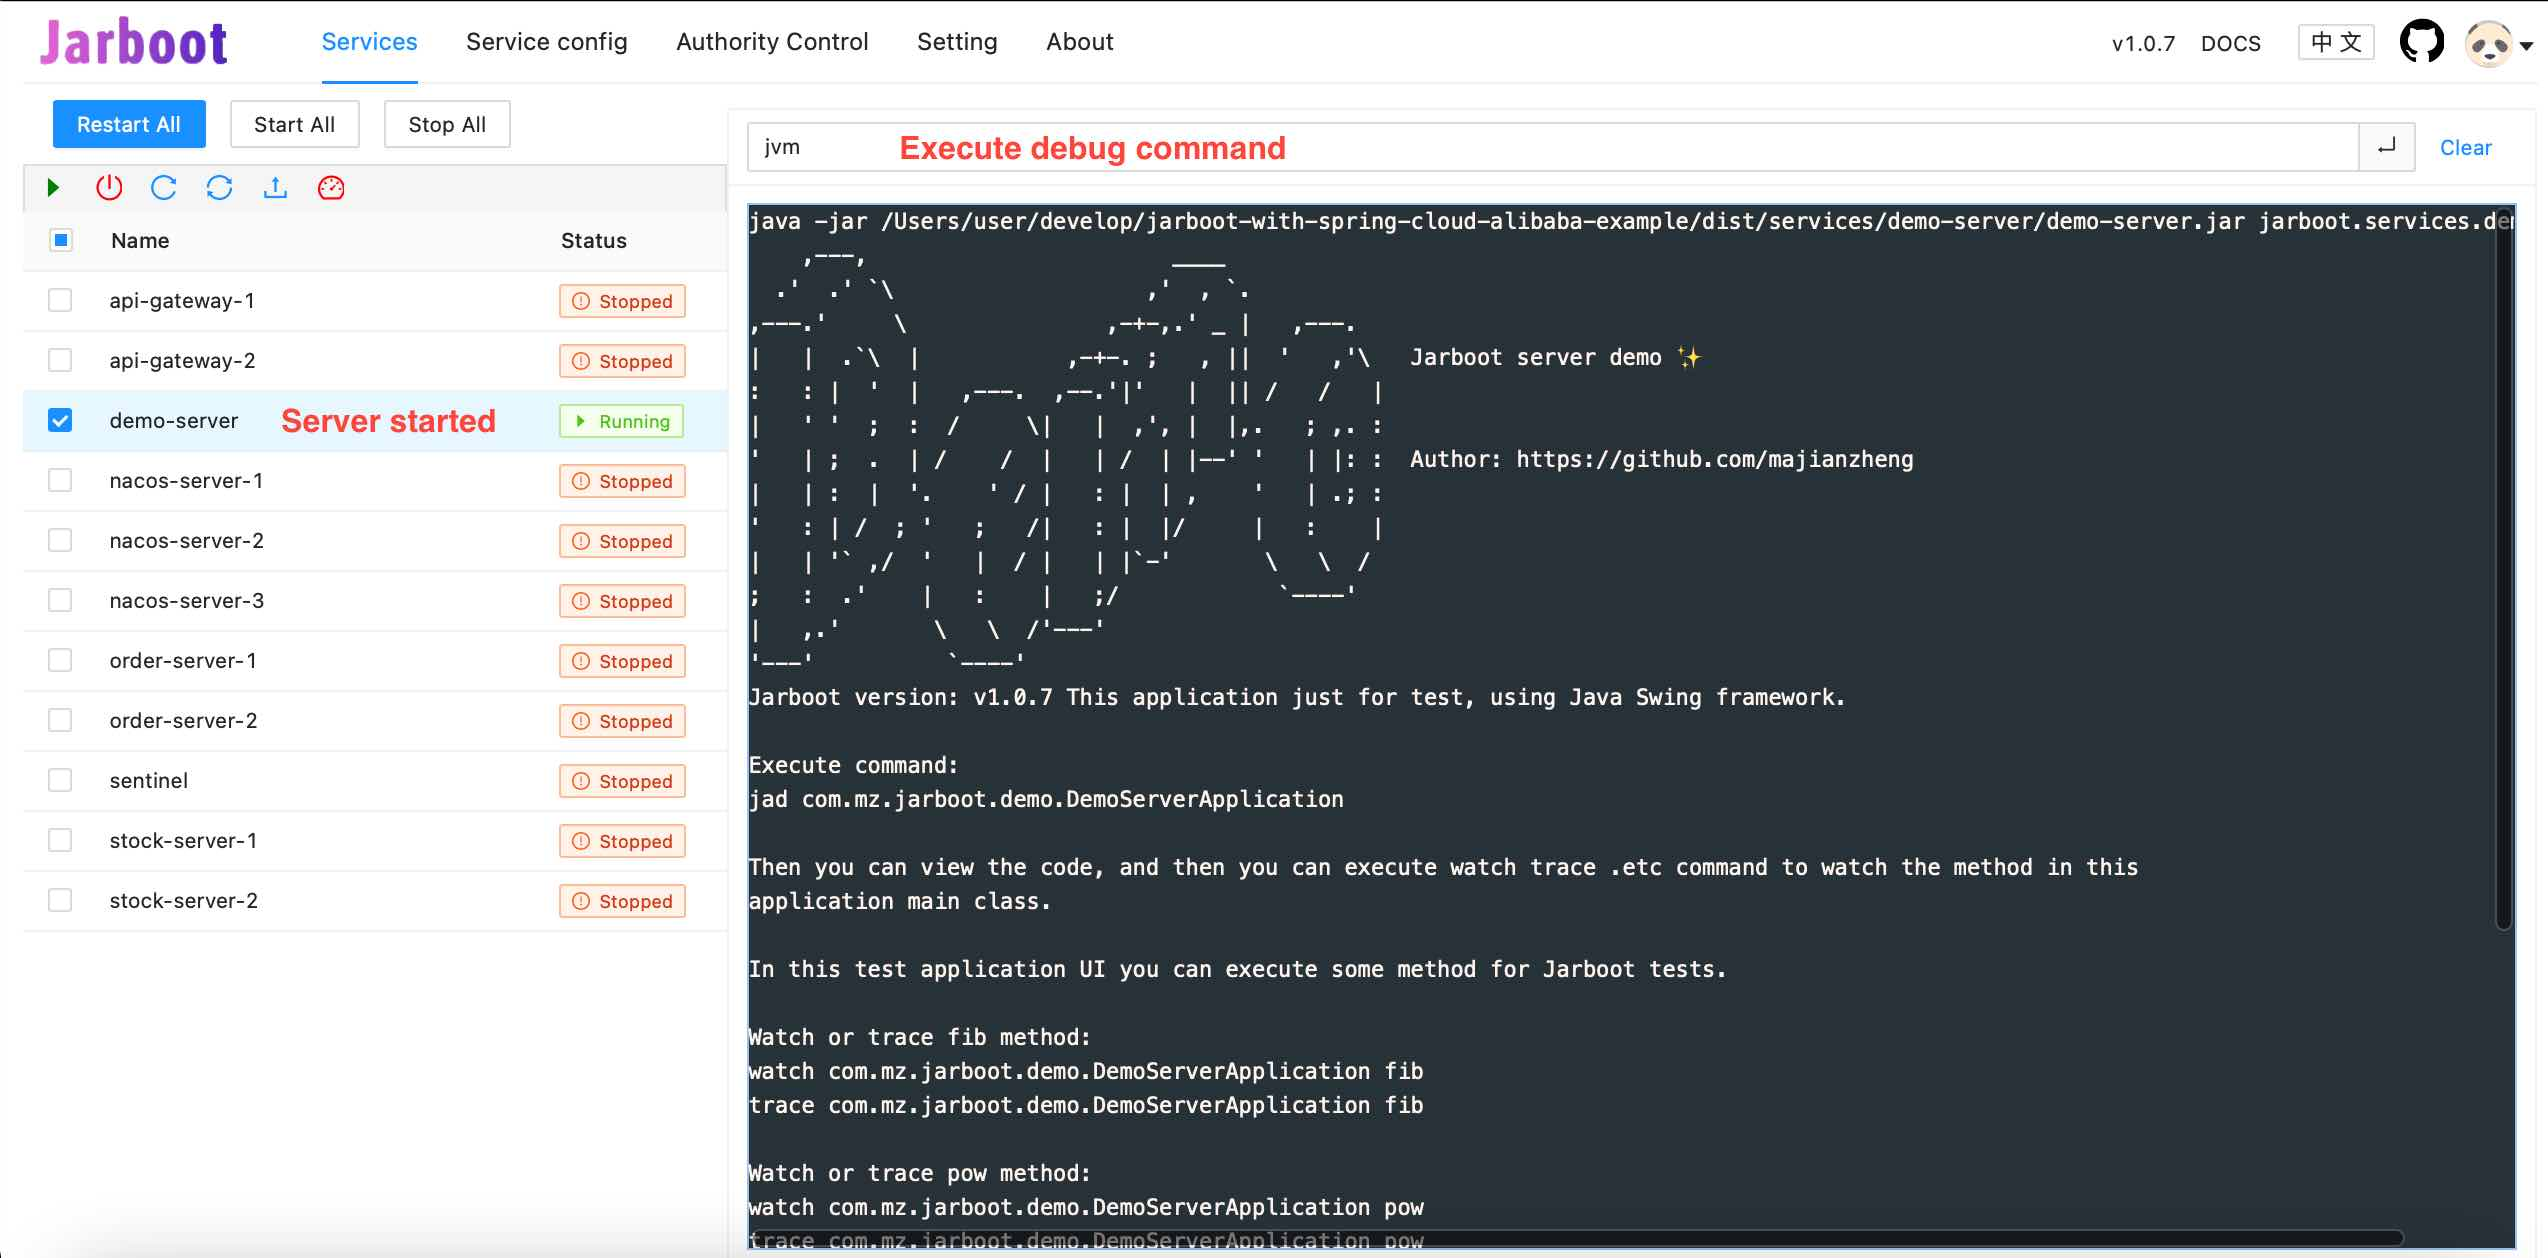
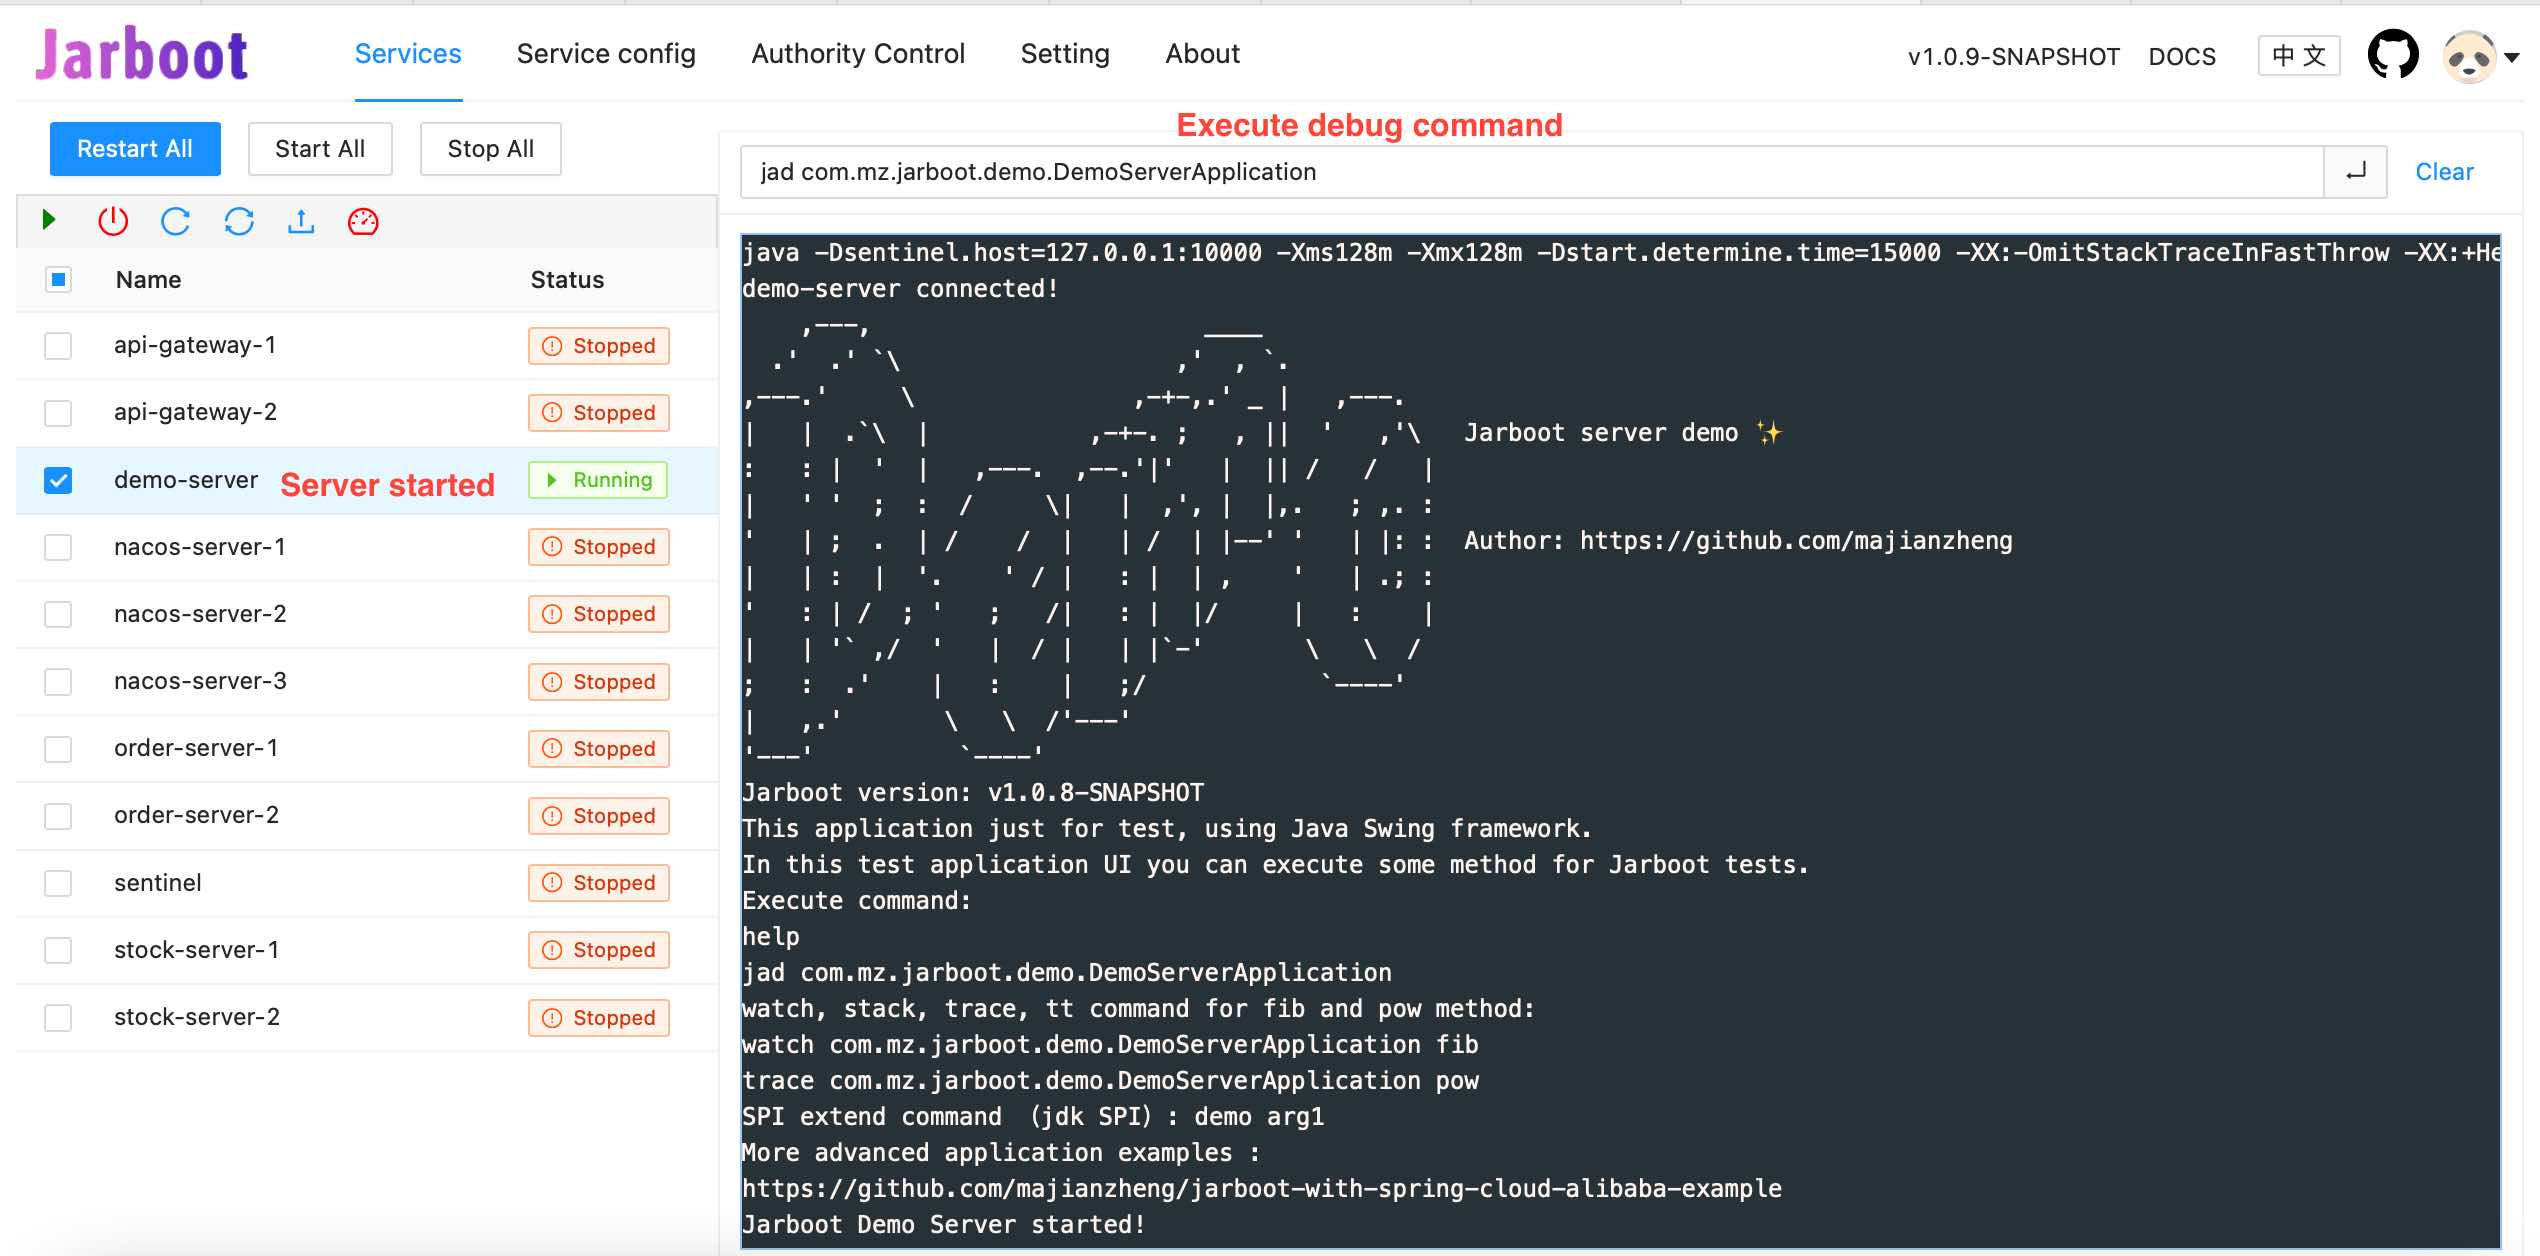
fix: 修复命令解析时有时默认值未生效的问题，增加dump命令

diff --git a/jarboot-core/src/main/java/com/mz/jarboot/core/cmd/view/DumpClassView.java b/jarboot-core/src/main/java/com/mz/jarboot/core/cmd/view/DumpClassView.java
@@ -1,6 +1,14 @@
 package com.mz.jarboot.core.cmd.view;
 
-import com.mz.jarboot.common.JsonUtils;
+import com.mz.jarboot.core.cmd.model.DumpClassVO;
+import com.mz.jarboot.core.cmd.view.element.Element;
+import com.mz.jarboot.core.cmd.view.element.TableElement;
+import com.mz.jarboot.core.constant.CoreConstant;
+import com.mz.jarboot.core.utils.ClassUtils;
+import com.mz.jarboot.core.utils.HtmlNodeUtils;
+import com.mz.jarboot.core.utils.TypeRenderUtils;
+
+import java.util.List;
 
 /**
  * @author majianzheng
@@ -9,11 +17,34 @@ public class DumpClassView implements ResultView<com.mz.jarboot.core.cmd.model.D
 
     @Override
     public String render(com.mz.jarboot.core.cmd.model.DumpClassModel result) {
-        return JsonUtils.toJsonString(result);
+        StringBuilder sb = new StringBuilder();
+        if (result.getMatchedClassLoaders() != null) {
+            sb.append("Matched classloaders: \n");
+            ClassLoaderView.drawClassLoaders(sb, result.getMatchedClassLoaders(), false);
+            sb.append(CoreConstant.BR);
+            return sb.toString();
+        }
+        if (result.getDumpedClasses() != null) {
+            drawDumpedClasses(sb, result.getDumpedClasses());
+        } else if (result.getMatchedClasses() != null) {
+            Element table = ClassUtils.renderMatchedClasses(result.getMatchedClasses());
+            sb.append(table.toHtml()).append(CoreConstant.BR);
+        }
+        return sb.toString();
     }
 
-    @Override
-    public boolean isJson() {
-        return true;
+    private void drawDumpedClasses(StringBuilder process, List<DumpClassVO> list) {
+        TableElement table = new TableElement();
+        table.row(true, "HASHCODE", "CLASSLOADER", "LOCATION");
+
+        for (DumpClassVO clazz : list) {
+            table.row(HtmlNodeUtils.red(clazz.getClassLoaderHash()),
+                    TypeRenderUtils.drawClassLoader(clazz).toHtml(),
+                    HtmlNodeUtils.red(clazz.getLocation()));
+        }
+
+        process
+                .append(table.toHtml())
+                .append(CoreConstant.EMPTY_STRING);
     }
 }

diff --git a/jarboot-core/src/main/java/com/mz/jarboot/core/cmd/CommandArgsParser.java b/jarboot-core/src/main/java/com/mz/jarboot/core/cmd/CommandArgsParser.java
@@ -205,15 +205,17 @@ public class CommandArgsParser {
             return;
         }
 
-        if ((null == values || values.isEmpty()) && option.required()) {
+        if ((null == values || values.isEmpty())) {
             DefaultValue defaultValue = method.getAnnotation(DefaultValue.class);
-            if (null == defaultValue) {
+            if (null == defaultValue && option.required()) {
                 throw new JarbootException(formatParamError(option.longName(), method));
             }
             // 默认值不为空
-            values = splitArgs(defaultValue.value());
-            if (values.isEmpty()) {
-                throw new JarbootException(formatParamError(option.longName(), method));
+            if (null != defaultValue) {
+                values = splitArgs(defaultValue.value());
+                if (option.required() && null != values && values.isEmpty()) {
+                    throw new JarbootException(formatParamError(option.longName(), method));
+                }
             }
         }
 

diff --git a/jarboot-server/src/main/java/com/mz/jarboot/security/JwtAuthenticationTokenFilter.java b/jarboot-server/src/main/java/com/mz/jarboot/security/JwtAuthenticationTokenFilter.java
@@ -33,7 +33,12 @@ public class JwtAuthenticationTokenFilter extends OncePerRequestFilter {
         String jwt = resolveToken(request);
         
         if (StringUtils.isNotBlank(jwt) && SecurityContextHolder.getContext().getAuthentication() == null) {
-            this.tokenManager.validateToken(jwt);
+            try {
+                this.tokenManager.validateToken(jwt);
+            } catch (Exception e) {
+                response.sendError(HttpServletResponse.SC_UNAUTHORIZED, e.getMessage());
+                return;
+            }
             Authentication authentication = this.tokenManager.getAuthentication(jwt);
             SecurityContextHolder.getContext().setAuthentication(authentication);
             if (permissionManager.hasPermission(authentication.getName(), request)) {

diff --git a/jarboot-core/src/main/java/com/mz/jarboot/core/cmd/impl/BytesCommand.java b/jarboot-core/src/main/java/com/mz/jarboot/core/cmd/impl/BytesCommand.java
@@ -70,6 +70,10 @@ public class BytesCommand extends AbstractCommand {
         //打印classloader
         session.console("ClassLoader: " + cls.getClassLoader().toString());
         session.console("<hr>");
+        showBytesCode(cls);
+    }
+
+    private synchronized void showBytesCode(Class<?> cls) {
         File file = null;
         try {
             byte[] classfileBuffer = IOUtils.getBytes(Objects.requireNonNull(cls.getClassLoader()

diff --git a/jarboot-core/src/main/java/com/mz/jarboot/core/cmd/CommandBuilder.java b/jarboot-core/src/main/java/com/mz/jarboot/core/cmd/CommandBuilder.java
@@ -36,6 +36,7 @@ public class CommandBuilder {
         commandMap.put("jvm", JvmCommand.class);
         commandMap.put("stdout", StdOutCommand.class);
         commandMap.put("sysprop", SysPropCommand.class);
+        commandMap.put("dump", DumpClassCommand.class);
         commandMap.put("heapdump", HeapDumpCommand.class);
         commandMap.put("sysenv", SystemEnvCommand.class);
         commandMap.put("help", HelpCommand.class);

diff --git a/jarboot-core/src/main/java/com/mz/jarboot/core/cmd/impl/DumpClassCommand.java b/jarboot-core/src/main/java/com/mz/jarboot/core/cmd/impl/DumpClassCommand.java
@@ -15,7 +15,6 @@ import org.slf4j.LoggerFactory;
 
 import java.io.File;
 import java.lang.instrument.Instrumentation;
-import java.lang.instrument.UnmodifiableClassException;
 import java.util.*;
 
 

diff --git a/CHANGELOG.md b/CHANGELOG.md
@@ -3,6 +3,10 @@
 * refactor bytes command (重构查看字节码命令)
 * fix upload file and download file 401 error
 * task filter by workspace
+* fix request error when token expire
+* fix command cli parse not use default when not require
+#### FEATURES:
+* add dump command
 
 ## 1.0.8 (8.7, 2021)
 
